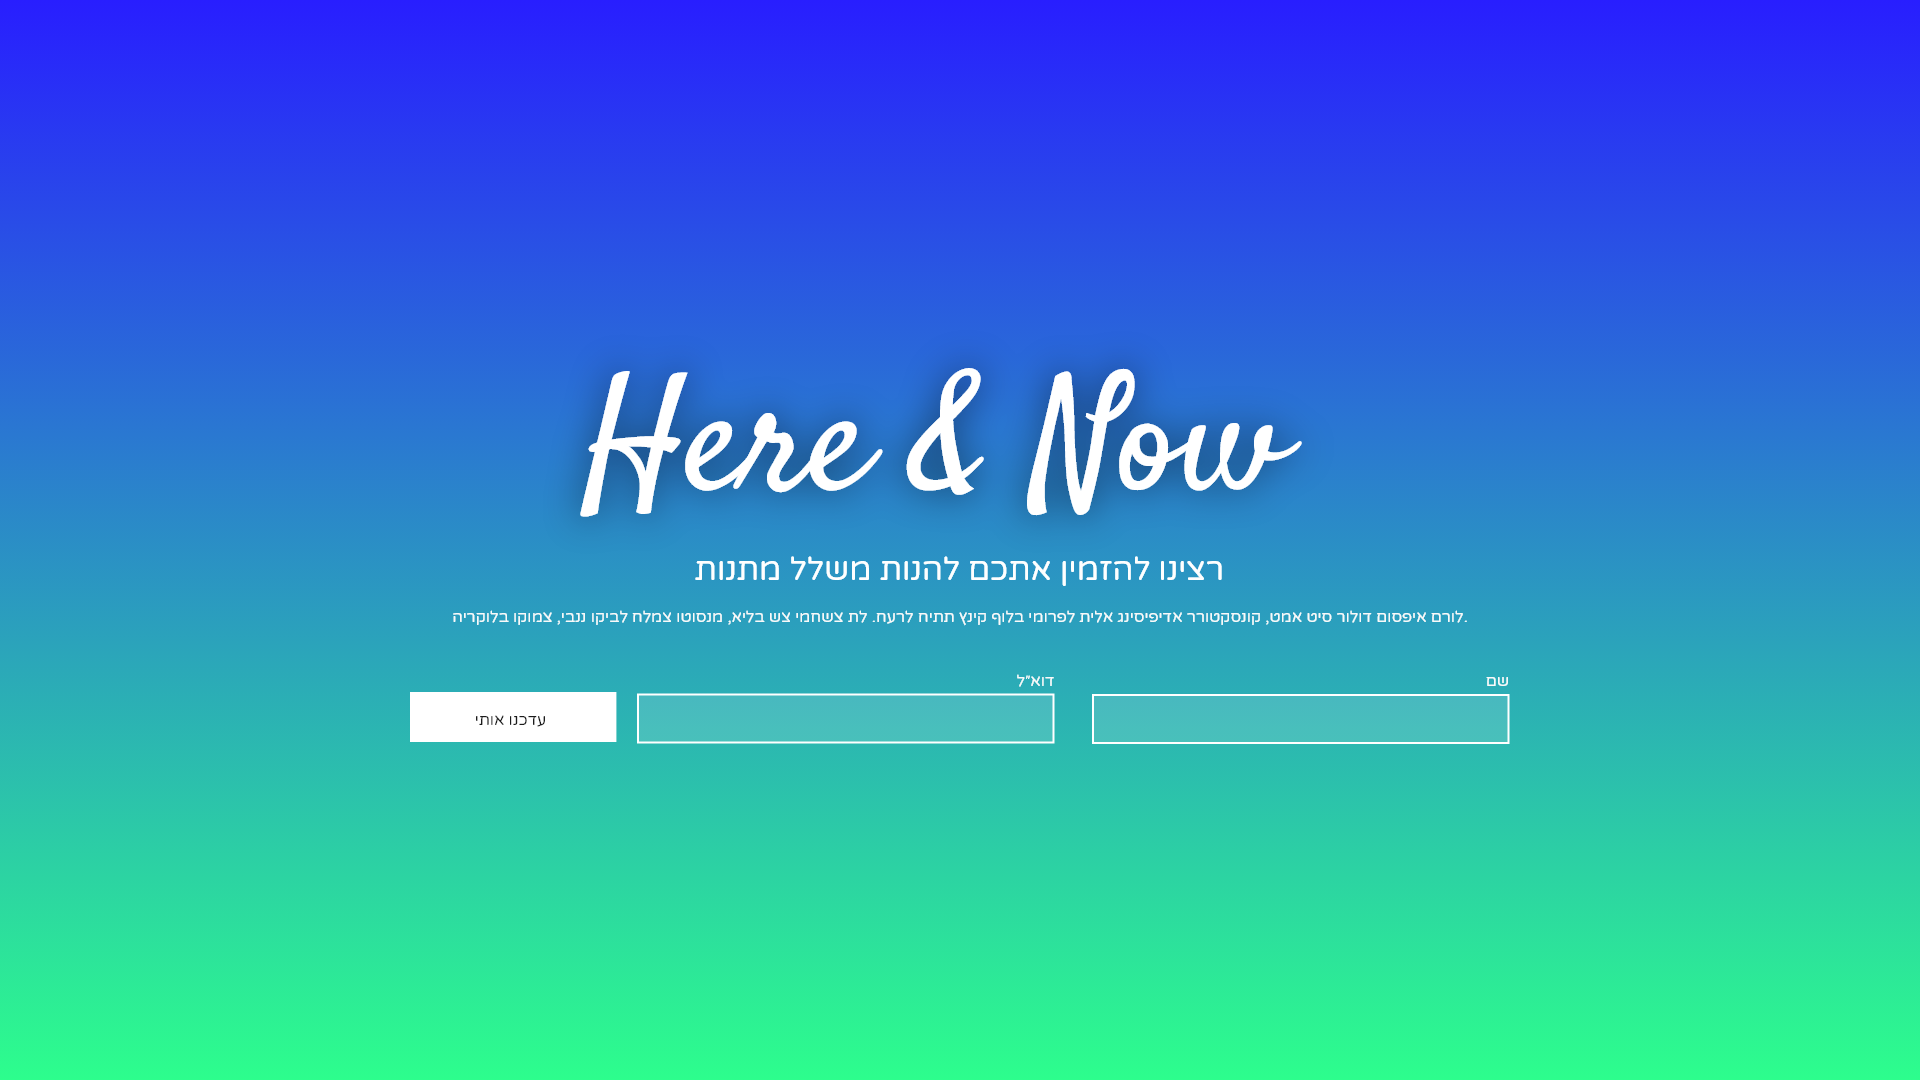
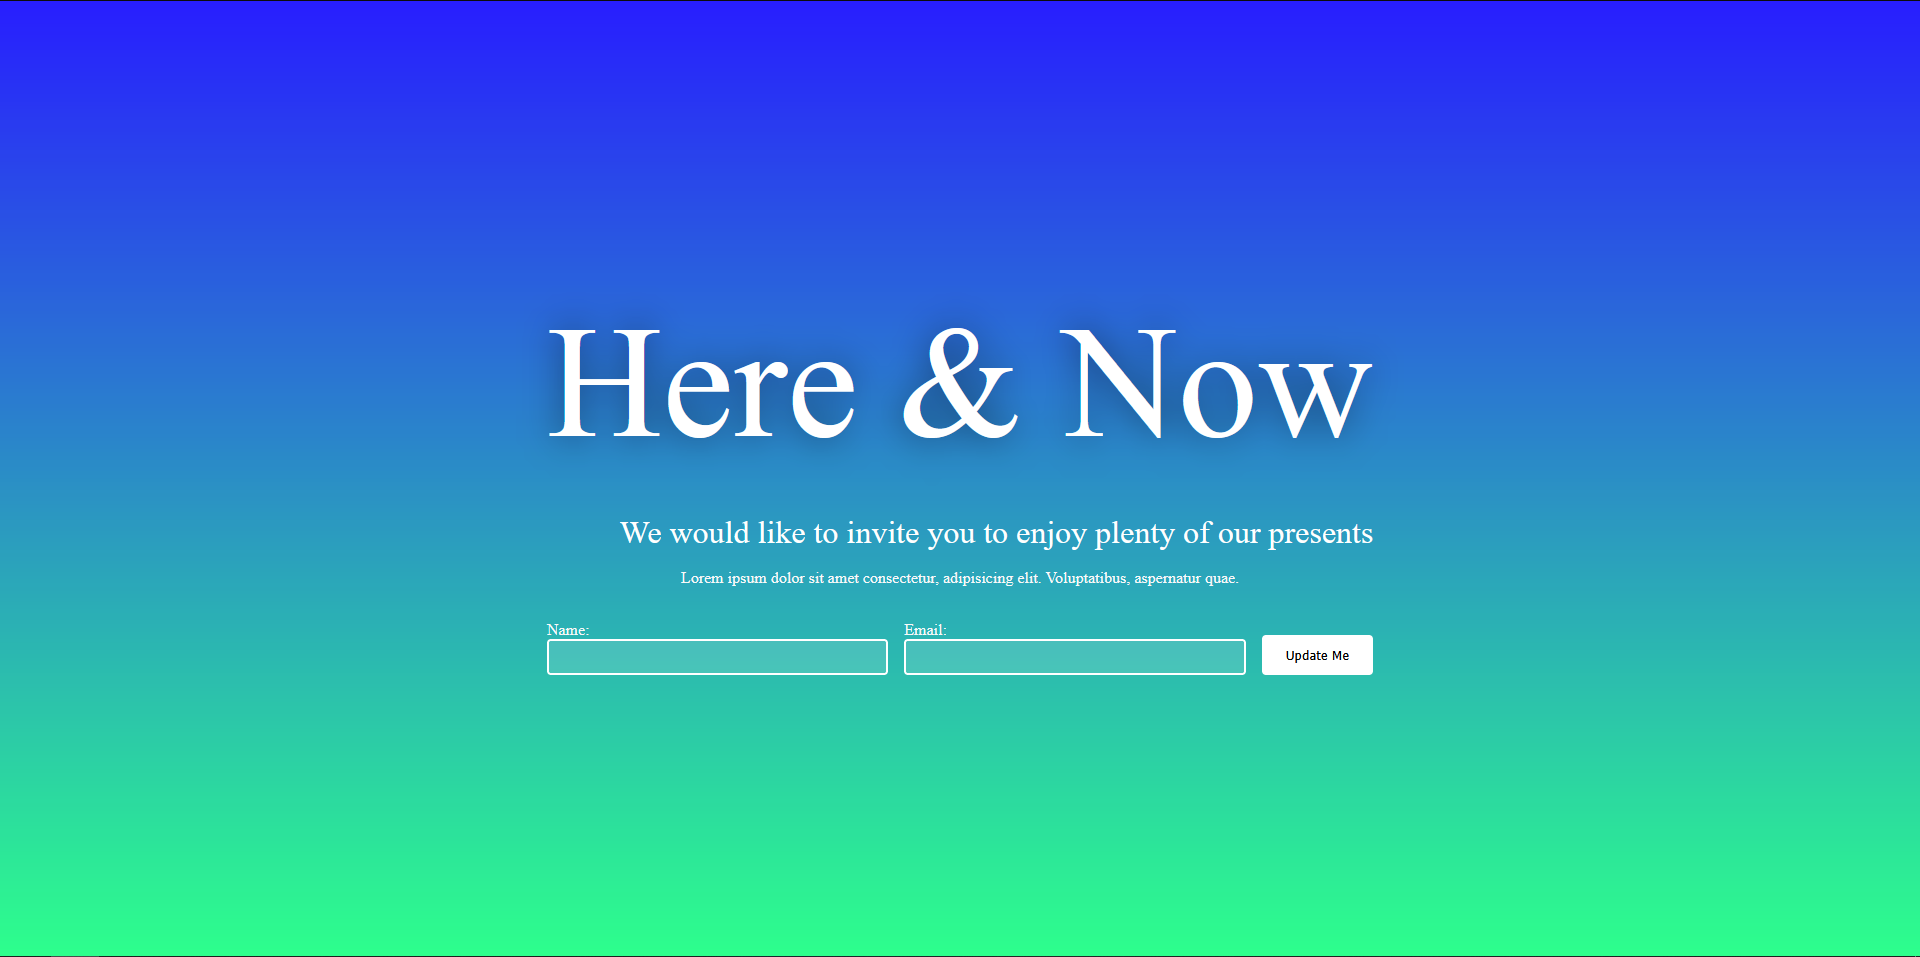
Finished Project 1

Changed region(s): [[0.1875, 0.5152, 0.8125, 0.7273], [0.2812, 0.3333, 0.7188, 0.4848]]

diff --git a/index.html b/index.html
@@ -101,13 +101,15 @@
                                 <img src="images/project-2.png" alt="Project 2" class="project-image">
                                 <h2 class="project-title">Good morning coffee</h2>
                                 <p class="project-description">Description of Project 2.</p>
-                                <button class="project-button">View Project</button>
+                                <a href="projects/project2/transition.html">
+                                    <button class="project-button">View Project</button></a>
                     </div>
                     <div class="project-item">
                         <img src="images/project-3.png" alt="Project 3" class="project-image">
                         <h2 class="project-title">Vacation</h2>
                         <p class="project-description">Description of Project 3.</p>
-                        <button class="project-button">View Project</button>
+                        <a href="projects/project3/transition.html">
+                            <button class="project-button">View Project</button></a>
                     </div>
                 </div>
                 <div class="projects-row">
@@ -115,19 +117,22 @@
                         <img src="images/project-4.png" alt="Project 4" class="project-image">
                         <h2 class="project-title">Enjoy a drink</h2>
                         <p class="project-description">Description of Project 4.</p>
-                        <button class="project-button">View Project</button>
+                        <a href="projects/project4/transition.html">
+                            <button class="project-button">View Project</button></a>
                     </div>
                     <div class="project-item">
                         <img src="images/project-5.png" alt="Project 5" class="project-image">
                         <h2 class="project-title">Let us lead</h2>
                         <p class="project-description">Description of Project 5.</p>
-                        <button class="project-button">View Project</button>
+                        <a href="projects/project5/transition.html">
+                            <button class="project-button">View Project</button></a>
                     </div>
                     <div class="project-item">
                         <img src="images/project-6.png" alt="Project 6" class="project-image">
                         <h2 class="project-title">Let us lead more</h2>
                         <p class="project-description">Description of Project 6.</p>
-                        <button class="project-button">View Project</button>
+                        <a href="projects/project6/transition.html">
+                            <button class="project-button">View Project</button></a>
                     </div>
                 </div>
             </div>

diff --git a/projects/project1/style/project-style.css b/projects/project1/style/project-style.css
@@ -1,0 +1,111 @@
+* {
+    margin: 0;
+    padding: 0;
+    box-sizing: border-box;
+}
+
+body {
+    color: white;
+}
+
+.gradient-container {
+    background: linear-gradient(to bottom, #281EFF, #2DFF8C);
+    padding: 2rem;
+    display: flex;
+    justify-content: center;
+    align-items: center;
+    height: 100vh;
+}
+
+.inner-container {
+    display: flex;
+    flex-direction: column;
+    padding: 2rem;
+    border-radius: 8px;
+    text-align: center;
+    width: auto;
+}
+
+.inner-container h1 {
+    /* UI Properties */
+    font: normal normal normal 160px/231px Satisfy;
+    letter-spacing: 0px;
+    color: #FFFFFF;
+    text-shadow: 0px 0px 36px #00000087;
+    opacity: 1;
+    margin-bottom: 1rem;
+}
+
+.inner-container h2 {
+    text-align: right;
+    font: normal normal normal 32px/38px Varela Round;
+    letter-spacing: 0px;
+    color: #FFFFFF;
+    opacity: 1;
+    margin-bottom: 1rem;
+}
+
+.inner-container p {
+    text-align: center;
+    font: normal normal normal 16px/20px Varela Round;
+    letter-spacing: 0px;
+    color: #F9F9F9;
+    opacity: 1;
+    margin-bottom: 2rem;
+}
+
+.inner-container form {
+    display: flex;
+    flex-direction: row;
+    align-items: flex-start;
+    width: 100%;
+}
+
+.inner-container form .form-group {
+    display: flex;
+    flex-direction: column;
+    width: 100%;
+    margin-bottom: 1rem;
+    margin-right: 1rem;
+}
+
+.inner-container form .form-inputs {
+    display: flex;
+    align-items: center;
+    flex-direction: row;
+    width: 100%;
+}
+
+.inner-container form label {
+    text-align: left;
+    font: normal normal normal 16px/20px Varela Round;
+    letter-spacing: 0px;
+    color: #F9F9F9;
+    opacity: 1;
+}
+
+.inner-container form input {
+    width: 100%;
+    padding: 0.5rem;
+    border: 1px solid #ccc;
+    border-radius: 4px;
+    background: #F6F6F624 0% 0% no-repeat padding-box;
+    border: 2px solid #FFFFFF;
+    opacity: 1;
+}
+
+.inner-container form button {
+    align-self: center;
+    padding: 0.75rem 1.5rem;
+    background-color: white;
+    color: black;
+    border: none;
+    border-radius: 4px;
+    cursor: pointer;
+    white-space: nowrap;
+}
+
+.inner-container form button:hover {
+    background-color: #555;
+    color: white;
+}

diff --git a/projects/project1/index.html b/projects/project1/index.html
@@ -1,0 +1,37 @@
+<!DOCTYPE html>
+<html lang="en">
+
+<head>
+    <meta charset="UTF-8">
+    <meta name="viewport" content="width=device-width, initial-scale=1.0">
+    <link rel="stylesheet" href="style/project-style.css">
+    <title>Here & Now</title>
+</head>
+
+<body>
+    <section id="gradient-container" class="gradient-container">
+        <div class="inner-container">
+            <h1>Here & Now</h1>
+            <h2>We would like to invite you to enjoy plenty of our presents</h2>
+            <p>Lorem ipsum dolor sit amet consectetur, adipisicing elit. Voluptatibus, aspernatur quae.</p>
+
+            <div class="form-container">
+                <form>
+                    <div class="form-inputs">
+                        <div class="form-group">
+                            <label for="name">Name:</label>
+                            <input type="text" id="name" name="name" required>
+                        </div>
+                        <div class="form-group">
+                            <label for="email">Email:</label>
+                            <input type="email" id="email" name="email" required>
+                        </div>
+                    </div>
+                    <button type="submit">Update Me</button>
+                </form>
+            </div>
+        </div>
+    </section>
+</body>
+
+</html>

diff --git a/projects/project1/transition.html b/projects/project1/transition.html
@@ -4,9 +4,9 @@
 <head>
     <meta charset="UTF-8">
     <meta name="viewport" content="width=device-width, initial-scale=1.0">
-    <title>Project 1 - Transition</title>
+    <title>Here & Now - Transition</title>
     <link rel="stylesheet" href="../../style/main.css">
-    <link rel="stylesheet" href="style/project.css">
+    <link rel="stylesheet" href="style/transition-style.css">
     <link rel="preconnect" href="https://fonts.googleapis.com">
     <link rel="preconnect" href="https://fonts.gstatic.com" crossorigin>
     <link
@@ -33,8 +33,8 @@
     <main class="main container">
         <section id="home">
             <div id="home-content" class="section-content">
-                <h1 class="section-title">Project 1</h1>
-                <p class="section-paragraph">This is project 1</p>
+                <h1 class="section-title">Transition for Here & Now</h1>
+                <!-- <p class="section-paragraph">This is project 1</p> -->
                 <div class="project-buttons">
                     <button class="project-button">Download Project</button>
                     <a href="index.html" target="_blank">
@@ -57,6 +57,8 @@
                 <img src="images/project1.png" alt="Project 1 image" id="project-image-element">
             </div>
         </section>
+
+
     </main>
 
     <footer class="container">

diff --git a/style/main.css b/style/main.css
@@ -45,7 +45,6 @@ body {
     position: fixed;
     background-color: white;
     margin: 0 auto;
-    box-shadow: 0 4px 20px -2px gray;
 }
 
 .header .logo {
@@ -97,7 +96,9 @@ body {
 
 .nav-link:hover {
     transform: scale(1.1);
+    /* Grow on hover */
     color: #8ed1fc;
+    /* Change color to #8ed1fc on hover */
 }
 
 .nav-item {
@@ -376,13 +377,11 @@ body {
 
 /* Footer */
 footer {
-    position: fixed;
-    bottom: 0;
-    z-index: 1000;
     background-color: black;
     color: white;
     text-align: center;
     padding: 1rem 0;
+    height: 100%;
     width: 100%;
 }
 
